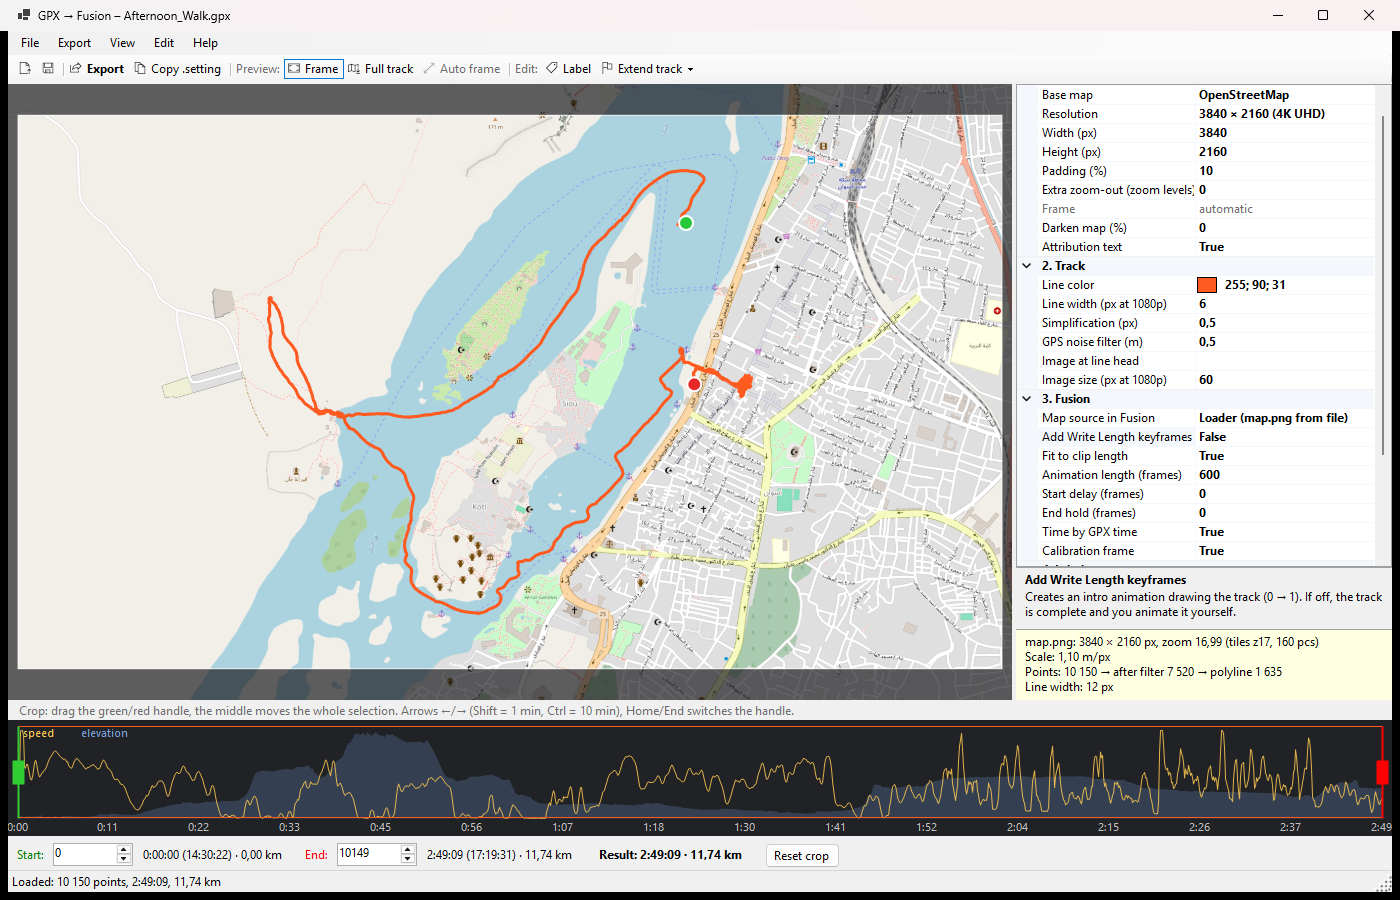
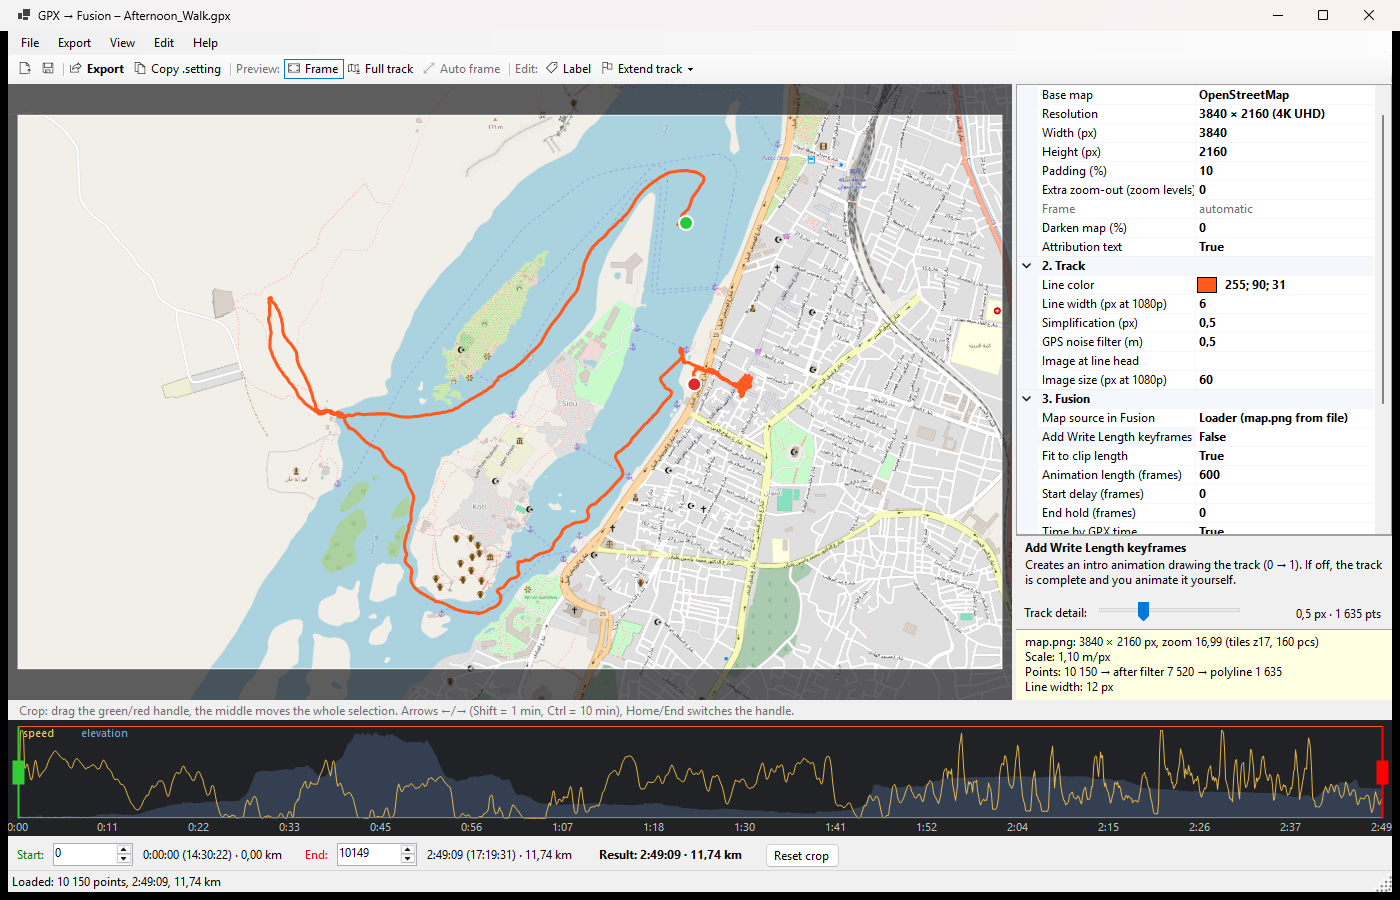
reduce GPX pooints for faster rendering

Changed region(s): [[0.7371, 0.5911, 1.0, 0.6844]]

diff --git a/docs/index.html b/docs/index.html
@@ -179,6 +179,7 @@ dotnet run --project src/GpxToFusion -- "C:\path\to\track.gpx"</code></pre>
   <tr><td>Menu &amp; toolbar</td><td>File, Export, View, Edit, Help (<em>Controls</em>, <em>User guide (online)</em> and <em>About</em> with the version number). The toolbar has the most common commands: Export, Copy .setting, preview mode, Auto frame, Label and Extend track.</td></tr>
   <tr><td>Map preview</td><td>Shows exactly what <code>map.png</code> will contain (<em>Frame</em> mode, <kbd>F5</kbd>) or the whole track with the export frame outlined (<em>Full track</em>, <kbd>F6</kbd>). Drag to pan, wheel to zoom.</td></tr>
   <tr><td>Settings panel</td><td>All export options grouped as Map, Track, Fusion, Labels and Added points. The box below shows help for the selected option.</td></tr>
+  <tr><td>Track detail</td><td>Slider for how many points the Fusion polyline gets (same as <em>Simplification (px)</em>). Move it right for fewer points and faster rendering in Resolve. The tolerance and the point count are shown next to it, and the line in the preview is drawn from the simplified points, so you can see when it starts cutting corners.</td></tr>
   <tr><td>Info box</td><td>Output size, zoom, number of tiles, map scale, point counts after filtering and simplification, and the resulting line width.</td></tr>
   <tr><td>Crop timeline</td><td>The x axis is <strong>time</strong>, so pauses are visible. Speed is drawn in yellow, elevation in blue. Green and red handles mark the start and end.</td></tr>
 </table>
@@ -323,7 +324,7 @@ dotnet run --project src/GpxToFusion -- "C:\path\to\track.gpx"</code></pre>
   <tr><th>Setting</th><th>Description</th></tr>
   <tr><td>Line color</td><td>Color of the track line.</td></tr>
   <tr><td>Line width (px at 1080p)</td><td>Scaled with the resolution (4K → 2×).</td></tr>
-  <tr><td>Simplification (px)</td><td>Douglas–Peucker tolerance. Larger = fewer polyline points in Fusion.</td></tr>
+  <tr><td>Simplification (px)</td><td>Douglas–Peucker tolerance in <code>map.png</code> pixels. Larger = fewer polyline points in Fusion and faster rendering. Also set by the <em>Track detail</em> slider.</td></tr>
   <tr><td>GPS noise filter (m)</td><td>Drops points closer than this to the previous one (e.g. standing still). 0 = off.</td></tr>
   <tr><td>Image at line head / Image size</td><td>Optional PNG that rides on the end of the line; size of its longer side at 1080p.</td></tr>
 </table>
@@ -396,6 +397,9 @@ dotnet run --project src/GpxToFusion -- "C:\path\to\track.gpx"</code></pre>
 
 <h3>Labels use a different font in Resolve</h3>
 <p>Text+ needs the same font installed on the machine running Resolve. Otherwise choose <em>Burn into map.png</em>.</p>
+
+<h3>Rendering in Resolve is slow</h3>
+<p>Long tracks give the polyline thousands of points (and the marker path the same number). Move the <a href="#window"><em>Track detail</em></a> slider to the right, or raise <em>Simplification (px)</em>, until the point count drops to a few hundred. At 4K, 2–5 px is usually not visible. Watch the preview line: it shows the simplified track. Then export again and paste the new .setting.</p>
 
 <h3>Export takes long</h3>
 <p>The info box warns when a map needs many tiles. Use a smaller resolution or less extra zoom-out. Downloaded tiles are cached, so repeated exports are fast.</p>

diff --git a/src/GpxToFusion/UI/MainForm.cs b/src/GpxToFusion/UI/MainForm.cs
@@ -15,6 +15,9 @@ public sealed class MainForm : Form
     private readonly DescriptionPanel _info, _help;
     private readonly NumericUpDown _numStart, _numEnd;
     private readonly Label _lblStart, _lblEnd, _lblResult;
+    private readonly TrackBar _simplifyBar;
+    private readonly Label _lblSimplify;
+    private bool _suppressSimplify;
     private readonly ToolStripButton _btnExport, _btnAddLabel, _btnAutoFrame, _btnViewFrame, _btnViewFull;
     private readonly ToolStripDropDownButton _btnExtend, _btnCancel;
     private readonly ToolStripMenuItem _btnExtendStart, _btnExtendEnd;
@@ -215,9 +218,42 @@ public sealed class MainForm : Form
 
         _info = new DescriptionPanel { Dock = DockStyle.Bottom, BackColor = SystemColors.Info, ForeColor = SystemColors.InfoText };
 
+        // ---------- polyline detail (number of points in Fusion) ----------
+        _simplifyBar = new TrackBar
+        {
+            AutoSize = false, Height = 26, Anchor = AnchorStyles.Left | AnchorStyles.Right, Margin = new Padding(0),
+            Minimum = 0, Maximum = SimplifySteps, TickFrequency = 10,
+            SmallChange = 1, LargeChange = 10, TickStyle = TickStyle.None,
+        };
+        _lblSimplify = new Label { Dock = DockStyle.Fill, TextAlign = ContentAlignment.MiddleRight, AutoSize = false };
+        var simplifyCaption = new Label { Text = "Track detail:", AutoSize = true, Anchor = AnchorStyles.Left, Margin = new Padding(3, 0, 0, 0) };
+        var tip = new ToolTip();
+        string tipText = "Fewer points in the Fusion polyline = faster rendering in Resolve.\n" +
+                         "Right = fewer points. The preview line shows the simplified track.\n" +
+                         "Same as \"Simplification (px)\" in the settings.";
+        tip.SetToolTip(_simplifyBar, tipText);
+        tip.SetToolTip(simplifyCaption, tipText);
+        tip.SetToolTip(_lblSimplify, tipText);
+        _simplifyBar.ValueChanged += (_, _) =>
+        {
+            if (_suppressSimplify) return;
+            _settings.SimplifyTolerancePx = SimplifyFromBar(_simplifyBar.Value);
+            _grid.Refresh();
+            Recompute();
+        };
+        var simplifyRow = new TableLayoutPanel { Dock = DockStyle.Bottom, Height = 32, ColumnCount = 3, RowCount = 1, Padding = new Padding(2, 2, 4, 2) };
+        simplifyRow.RowStyles.Add(new RowStyle(SizeType.Percent, 100));
+        simplifyRow.ColumnStyles.Add(new ColumnStyle(SizeType.AutoSize));
+        simplifyRow.ColumnStyles.Add(new ColumnStyle(SizeType.Percent, 100));
+        simplifyRow.ColumnStyles.Add(new ColumnStyle(SizeType.Absolute, 140));
+        simplifyRow.Controls.Add(simplifyCaption, 0, 0);
+        simplifyRow.Controls.Add(_simplifyBar, 1, 0);
+        simplifyRow.Controls.Add(_lblSimplify, 2, 0);
+
         var right = new Panel { Dock = DockStyle.Fill };
         right.Controls.Add(_grid);
         right.Controls.Add(_help);
+        right.Controls.Add(simplifyRow);
         right.Controls.Add(_info);
 
         var split = new SplitContainer
@@ -525,7 +561,9 @@ public sealed class MainForm : Form
         if (_track == null)
         {
             _info.Text = "No track.";
+            UpdateSimplifyRow(null);
             _preview.ExportFrame = null;
+            _preview.PolylineIndices = null;
             _preview.Invalidate();
             return;
         }
@@ -540,7 +578,9 @@ public sealed class MainForm : Form
         _preview.CropStart = _timeline.Start;
         _preview.CropEnd = _timeline.End;
         _preview.ExportFrame = frame;
+        _preview.PolylineIndices = geo.Simplified.Select(p => _timeline.Start + p.SourceIndex).ToArray();
         _preview.Invalidate();
+        UpdateSimplifyRow(geo.Simplified.Count);
 
         double metersPerPx = 156543.03392 * Math.Cos(cropped.Points[0].Lat * Math.PI / 180) / Math.Pow(2, frame.Zoom);
         string warn = tiles > 2000 ? $"\n⚠ Many tiles ({tiles}) – downloading will take long, consider a smaller resolution." : "";
@@ -549,6 +589,32 @@ public sealed class MainForm : Form
             $"Scale: {metersPerPx:0.00} m/px\n" +
             $"Points: {cropped.Count:N0} → after filter {geo.Full.Count:N0} → polyline {geo.Simplified.Count:N0}\n" +
             $"Line width: {_settings.LineWidthPx:0.#} px" + warn;
+    }
+
+    // Slider position (0..SimplifySteps) ↔ Douglas–Peucker tolerance, logarithmic from SimplifyMinPx to SimplifyMaxPx.
+    private const int SimplifySteps = 100;
+    private const double SimplifyMinPx = 0.1, SimplifyMaxPx = 20;
+
+    private static double SimplifyFromBar(int pos)
+    {
+        double v = SimplifyMinPx * Math.Pow(SimplifyMaxPx / SimplifyMinPx, (double)pos / SimplifySteps);
+        return v < 1 ? Math.Round(v, 2) : Math.Round(v, 1);
+    }
+
+    private static int SimplifyToBar(double px)
+    {
+        double t = Math.Log(Math.Clamp(px, SimplifyMinPx, SimplifyMaxPx) / SimplifyMinPx) / Math.Log(SimplifyMaxPx / SimplifyMinPx);
+        return (int)Math.Round(t * SimplifySteps);
+    }
+
+    /// <summary>Syncs the slider with the setting (it can also change in the grid or by loading a project).</summary>
+    private void UpdateSimplifyRow(int? points)
+    {
+        _suppressSimplify = true;
+        _simplifyBar.Value = SimplifyToBar(_settings.SimplifyTolerancePx);
+        _suppressSimplify = false;
+        string tol = $"{_settings.SimplifyTolerancePx:0.##} px";
+        _lblSimplify.Text = points is { } n ? $"{tol} · {n:N0} pts" : tol;
     }
 
     // =============== view / modes ===============

diff --git a/src/GpxToFusion/UI/MapPreview.cs b/src/GpxToFusion/UI/MapPreview.cs
@@ -37,6 +37,12 @@ public sealed class MapPreview : SKControl
     public int CropStart { get; set; }
     [Browsable(false), DesignerSerializationVisibility(DesignerSerializationVisibility.Hidden)]
     public int CropEnd { get; set; }
+    /// <summary>
+    /// Indices into <see cref="FullTrack"/> of the simplified Fusion polyline. When set, the cropped line is drawn
+    /// through these points only, so the preview shows what Fusion will get.
+    /// </summary>
+    [Browsable(false), DesignerSerializationVisibility(DesignerSerializationVisibility.Hidden)]
+    public IReadOnlyList<int>? PolylineIndices { get; set; }
     [Browsable(false), DesignerSerializationVisibility(DesignerSerializationVisibility.Hidden)]
     public ExportSettings Settings { get; set; } = new();
     [Browsable(false), DesignerSerializationVisibility(DesignerSerializationVisibility.Hidden)]
@@ -484,7 +490,7 @@ public sealed class MapPreview : SKControl
         // Track
         float lineW = (float)Math.Max(1.5, Settings.LineWidthPx * exportRect.Width / ef.Width);
         using var ghostPath = BuildPath(view, 0, FullTrack.Count - 1);
-        using var cropPath = BuildPath(view, CropStart, CropEnd);
+        using var cropPath = PolylineIndices is { Count: >= 2 } idx ? BuildPath(view, idx) : BuildPath(view, CropStart, CropEnd);
         using (var ghost = new SKPaint
                {
                    IsAntialias = true, Style = SKPaintStyle.Stroke, StrokeWidth = Math.Max(1.5f, lineW * 0.6f),
@@ -579,6 +585,21 @@ public sealed class MapPreview : SKControl
             else if (Math.Abs(x - lastX) + Math.Abs(y - lastY) < 0.5 && i != to) continue; // skip sub-pixel steps
             else path.LineTo((float)x, (float)y);
             lastX = x; lastY = y;
+        }
+        return path.Detach();
+    }
+
+    /// <summary>Path through the given track indices (the simplified polyline), without skipping any point.</summary>
+    private SKPath BuildPath(MapFrame view, IReadOnlyList<int> indices)
+    {
+        var path = new SKPathBuilder();
+        var pts = FullTrack!.Points;
+        for (int k = 0; k < indices.Count; k++)
+        {
+            var p = pts[Math.Clamp(indices[k], 0, pts.Count - 1)];
+            var (x, y) = view.ToPixel(p.Lat, p.Lon);
+            if (k == 0) path.MoveTo((float)x, (float)y);
+            else path.LineTo((float)x, (float)y);
         }
         return path.Detach();
     }

diff --git a/src/GpxToFusion/Export/ExportSettings.cs b/src/GpxToFusion/Export/ExportSettings.cs
@@ -115,7 +115,7 @@ public sealed class ExportSettings
     public double LineWidth1080 { get; set; } = 6;
 
     [Category("2. Track"), DisplayName("Simplification (px)"),
-     Description("Douglas–Peucker tolerance in map.png pixels. Larger = fewer points in the Fusion polyline.")]
+     Description("Douglas–Peucker tolerance in map.png pixels. Larger = fewer points in the Fusion polyline = faster rendering in Resolve. Also set by the Track detail slider.")]
     public double SimplifyTolerancePx { get; set; } = 0.5;
 
     [Category("2. Track"), DisplayName("GPS noise filter (m)"), Description("Skips points closer than X meters to the previous one (standing still). 0 = off.")]

diff --git a/README.md b/README.md
@@ -23,6 +23,7 @@ All commands are in the top menu (File, Export, View, Edit); the most common one
 2. **Crop the track.** The green handle is the start, the red one the end. Drag the middle to move the whole selection. Set exact values in the *Start/End* fields. Keys: ←/→ = 1 point, Shift = 60 points, Ctrl = 600 points, Home/End = select handle.
 3. **Extend the track** (optional, e.g. when you started the tracker late): **Extend track → Start / End** and click in the map. Points chain outward from the green (start) or red (end) point and are joined by straight lines. **Drag** a point = move, **click on a segment** = insert a point (you can drag it right away), **right button** = delete, **Esc** = done. Added segments are shown as a dashed line in the preview. Their time is computed from *5. Added points → Speed* (0 = moving average from the GPX); elevation is taken from the end point. The points are saved in the project and the original GPX stays untouched; *File → Save GPX with added points…* writes a new GPX with the whole track.
 4. **Set up the map** (panel on the right): base map (OSM / satellite / CARTO), resolution, padding, extra zoom-out, darkening, line color and width.
+   - **Track detail** slider (above the info box): fewer polyline points = faster rendering in Resolve. The preview line is drawn from the simplified points; the point count is shown next to the slider.
    - The preview shows the exact `map.png` frame. The **Full track** button (F6) shows the whole track with the frame outline.
    - **Manual frame**: in the preview, **drag the map** with the mouse (or with the middle button while adding labels or points) and use the **wheel** to zoom in/out (Shift = finer). In *full track* mode you drag the frame outline directly. The frame is saved in the project and stays even when you change the crop. The **Auto frame** button (Ctrl+0) restores the automatic frame fitted to the track (so does changing padding or extra zoom-out).
 5. **Map labels** (optional): the **Label** button (Ctrl+L) and a click in the map open a window with text, font, size, color, outline and alignment. In the preview: **double-click** = edit, **drag** = move, **right button** = edit/delete. A new label takes over the style of the last one. Labels are anchored to a GPS position and saved in the project (*Save project…*), so you can change them any time. In *4. Labels → Label output* choose:
